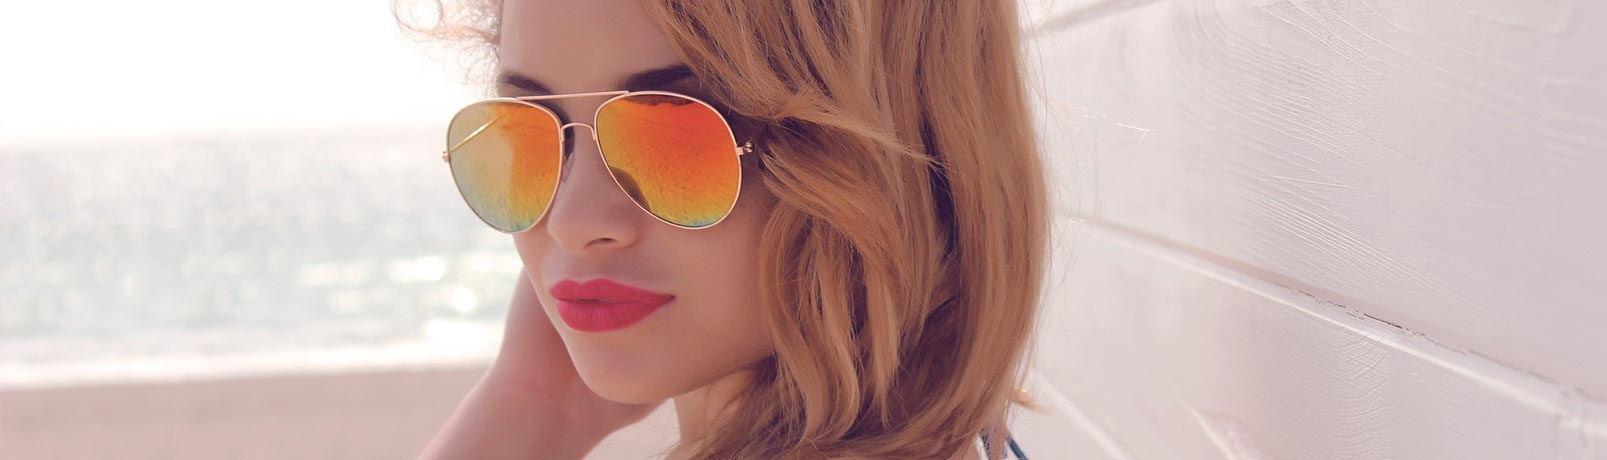
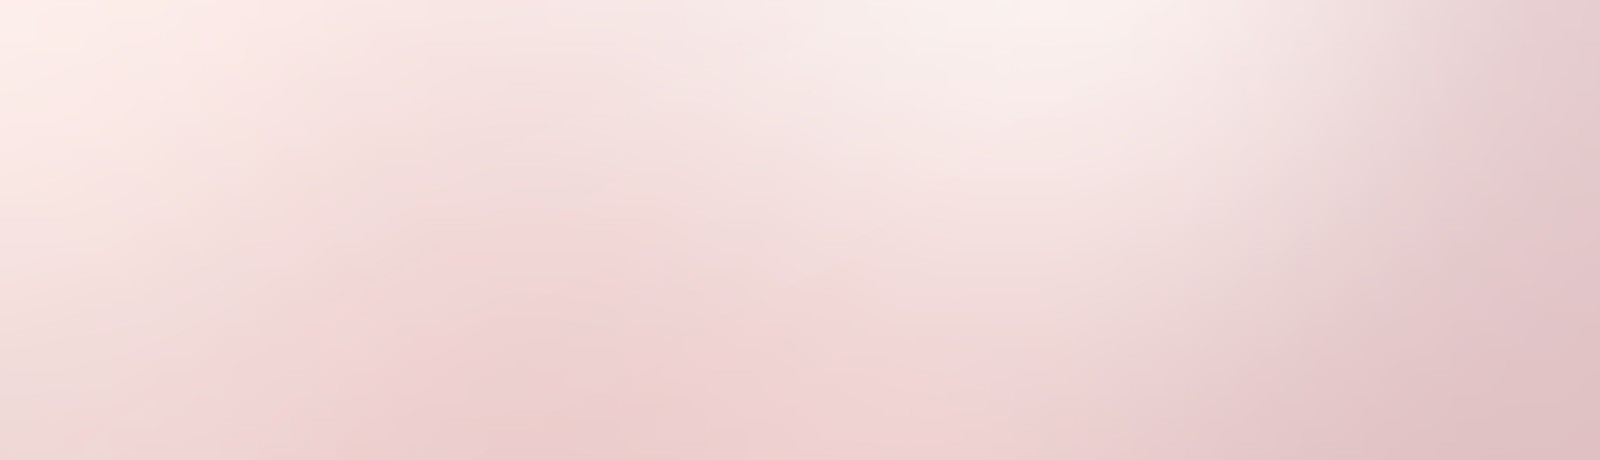
Pass the WordPress.org theme scan
The 3.1.0 upload was rejected. I had checked it with a set of greps I
wrote myself rather than with Theme Check, and they missed all of this.
The plugin now runs against the theme locally, which is how the rest of
this was found and confirmed fixed.

Two required failures:

* wp_body_open() was missing. WordPress has expected it since 5.2.
* The default header image came from a stock photo library whose licence
  WordPress.org does not accept as GPL compatible. Deleting the credit
  line would have quietened the scanner while leaving the asset in place
  for a human reviewer to find, so the image itself is replaced with one
  made for the theme, licensed with it. The screenshot is regenerated for
  the same reason -- it had the old photograph baked into it.

Three warnings:

* Three labels in the author widget escaped their text with esc_attr_e(),
  which is for attribute values, where the text sits between tags. Two of
  its select attributes were printed unescaped; those are escaped now.
* The header search was a hand-written form, and the theme carried three
  copies of it: header.php, a Customizer render callback, and
  searchform.php. A form written out like that cannot be filtered by a
  plugin, which is why the guidelines ask for get_search_form(). There is
  now one template part that renders it, and both callers use it.
* wp_nav_menu() in the author widget has no theme_location because it is
  not a theme location -- the menu is whichever the site owner picked in
[…]

diff --git a/style.css b/style.css
@@ -690,43 +690,58 @@ header#masthead {
     margin-bottom: 15px;
 }
 
-.top-header .search label {
+/* The header search is a toggle button followed by get_search_form()'s markup. That
+   form carries its own submit button, which is redundant here: the toggle already shows
+   the magnifier and the field submits on Enter, exactly as the old label-based version
+   did. */
+.top-header .search .search-toggle {
     font-size: 12px;
-    padding-right: 20px;
+    padding: 0 20px 0 0;
     margin-right: 20px;
+    border: 0 none;
     border-right: 1px solid #dddde0;
+    background: none;
     display: inline-block;
     line-height: 12px;
     color: #fe92a1;
     cursor: pointer;
 }
 
-.top-header .search input#search {
+.top-header .search .search-header-fields {
+    display: inline-block;
+    vertical-align: middle;
+}
+
+.top-header .search .search-submit {
+    display: none;
+}
+
+.top-header .search .search-field {
     border-left: 0 none;
     border-top: 0 none;
     border-right: 0 none;
     border-bottom: 1px solid #dddde0;
     margin-right: 10px;
     width: 0;
-    -webkit-transition: width .6s; /* Safari */
     transition: width .6s;
     box-sizing: border-box;
     padding: 0;
 }
 
-.top-header .search.active input#search {
+.top-header .search.active .search-field {
     width: 135px;
 }
 
-.top-header .search input#search:focus,
-.top-header .search input#search:hover {
+.top-header .search .search-field:focus,
+.top-header .search .search-field:hover {
     outline: none;
     border-color: #ae3c4e;
 }
 
-.top-header .search form {
+.top-header .search .search-form {
     position: relative;
     top: 1.75px;
+    display: inline-block;
 }
 
 header.archive-header {
@@ -1373,7 +1388,7 @@ a:active {
         display: block;
     }
 
-    .top-header .search label {
+    .top-header .search .search-toggle {
         border-right: 0 none;
         padding-right: 0;
         margin-right: 0;

diff --git a/assets/js/scripts.js b/assets/js/scripts.js
@@ -29,12 +29,17 @@ $(document).ready(function(){
 
 	}
 
-	$('.top-header .search .search-form label').click(function( evt ){
+	// The magnifier is a button now, not a label, so it carries aria-expanded and has
+	// to keep it in step with the class that reveals the field.
+	$('.top-header .search').on('click', '.search-toggle', function( evt ){
 		evt.stopPropagation();
 		evt.preventDefault();
-		$('.top-header .search').toggleClass( 'active' );
-		$('.top-header #search').focus();
-	});	
+		var $search = $(this).closest('.search').toggleClass('active');
+		$(this).attr('aria-expanded', $search.hasClass('active') ? 'true' : 'false');
+		if ( $search.hasClass('active') ) {
+			$search.find('.search-field').trigger('focus');
+		}
+	});
 
 });
 

diff --git a/inc/class-blaskan-author-widget.php b/inc/class-blaskan-author-widget.php
@@ -51,7 +51,13 @@ class Blaskan_Author_Widget extends WP_Widget {
 			$social_menu = ! empty( $instance['social_menu'] ) ? wp_get_nav_menu_object( $instance['social_menu'] ) : false;
 
 			if ( $social_menu ) {
-				
+
+				/*
+				 * No theme_location here on purpose. This is not a theme location: the
+				 * menu is whichever one the site owner picked in this widget's own form,
+				 * passed by term id. Theme Check flags any wp_nav_menu() without a
+				 * location for manual review, which this note is for.
+				 */
 				$social_menu_args = array(
 					'fallback_cb' 		=> '',
 					'menu'        		=> $social_menu,
@@ -86,11 +92,11 @@ class Blaskan_Author_Widget extends WP_Widget {
 
 		?>
 		<p>
-			<label for="<?php echo esc_attr( $this->get_field_id( 'title' ) ); ?>"><?php esc_attr_e( 'Title:', 'blaskan' ); ?></label> 
+			<label for="<?php echo esc_attr( $this->get_field_id( 'title' ) ); ?>"><?php esc_html_e( 'Title:', 'blaskan' ); ?></label> 
 			<input class="widefat" id="<?php echo esc_attr( $this->get_field_id( 'title' ) ); ?>" name="<?php echo esc_attr( $this->get_field_name( 'title' ) ); ?>" type="text" value="<?php echo esc_attr( $title ); ?>">
 		</p>
 		<p>
-			<label for="<?php echo esc_attr( $this->get_field_id( 'author' ) ); ?>"><?php esc_attr_e( 'Author:', 'blaskan' ); ?></label>
+			<label for="<?php echo esc_attr( $this->get_field_id( 'author' ) ); ?>"><?php esc_html_e( 'Author:', 'blaskan' ); ?></label>
 			<select id="<?php echo esc_attr( $this->get_field_id( 'author' ) ); ?>" name="<?php echo esc_attr( $this->get_field_name( 'author' ) ); ?>">
 				<option value="0"><?php _e( 'Select an user', 'blaskan' ); ?></option>
 				<?php
@@ -114,8 +120,8 @@ class Blaskan_Author_Widget extends WP_Widget {
 			<?php echo sprintf( __( 'No menus have been created yet. <a href="%s">Create some</a>.', 'blaskan' ), esc_attr( $url ) ); ?>
 		</p>
 		<p>
-			<label for="<?php echo esc_attr( $this->get_field_id( 'social_menu' ) ); ?>"><?php esc_attr_e( 'Social Menu:', 'blaskan' ); ?></label>
-			<select id="<?php echo $this->get_field_id( 'social_menu' ); ?>" name="<?php echo $this->get_field_name( 'social_menu' ); ?>">
+			<label for="<?php echo esc_attr( $this->get_field_id( 'social_menu' ) ); ?>"><?php esc_html_e( 'Social Menu:', 'blaskan' ); ?></label>
+			<select id="<?php echo esc_attr( $this->get_field_id( 'social_menu' ) ); ?>" name="<?php echo esc_attr( $this->get_field_name( 'social_menu' ) ); ?>">
 				<option value="0"><?php _e( '&mdash; Select &mdash;', 'blaskan' ); ?></option>
 				<?php foreach ( $menus as $menu ) : ?>
 					<option value="<?php echo esc_attr( $menu->term_id ); ?>" <?php selected( $social_menu, $menu->term_id ); ?>>

diff --git a/inc/blocks.php b/inc/blocks.php
@@ -1,0 +1,70 @@
+<?php
+/**
+ * Block editor: a block style and a block pattern in the theme's own idiom.
+ *
+ * @package blaskan
+ */
+
+/**
+ * A framed variant of the image block, matching the thin rule the theme uses around
+ * widgets and the footer columns.
+ */
+function blaskan_register_block_styles() {
+	register_block_style(
+		'core/image',
+		array(
+			'name'         => 'blaskan-framed',
+			'label'        => __( 'Framed', 'blaskan' ),
+			'inline_style' => '.wp-block-image.is-style-blaskan-framed img {
+				padding: 10px;
+				border: 1px solid #ebebeb;
+				background: #fff;
+			}',
+		)
+	);
+
+	register_block_style(
+		'core/quote',
+		array(
+			'name'         => 'blaskan-plain-quote',
+			'label'        => __( 'No rule', 'blaskan' ),
+			'inline_style' => '.wp-block-quote.is-style-blaskan-plain-quote {
+				border: 0 none;
+				padding-left: 0;
+				font-style: italic;
+			}',
+		)
+	);
+}
+add_action( 'init', 'blaskan_register_block_styles' );
+
+/**
+ * An opening block for a post: a short standfirst above the body, set the way the
+ * theme sets its own intro type.
+ */
+function blaskan_register_block_patterns() {
+	if ( ! function_exists( 'register_block_pattern' ) ) {
+		return;
+	}
+
+	register_block_pattern(
+		'blaskan/standfirst',
+		array(
+			'title'       => __( 'Standfirst and body', 'blaskan' ),
+			'description' => _x( 'A short introduction in larger type, followed by two columns of body text.', 'Block pattern description', 'blaskan' ),
+			'categories'  => array( 'text' ),
+			'content'     => '<!-- wp:paragraph {"fontSize":"large"} --><p class="has-large-font-size">'
+				. esc_html__( 'Open with a sentence or two that says what the piece is about, set larger than the body so a reader can decide from the top of the page.', 'blaskan' )
+				. '</p><!-- /wp:paragraph -->'
+				. '<!-- wp:columns --><div class="wp-block-columns">'
+				. '<!-- wp:column --><div class="wp-block-column"><!-- wp:paragraph --><p>'
+				. esc_html__( 'Then carry on in the ordinary body size.', 'blaskan' )
+				. '</p><!-- /wp:paragraph --></div><!-- /wp:column -->'
+				. '<!-- wp:column --><div class="wp-block-column"><!-- wp:paragraph --><p>'
+				. esc_html__( 'Two columns hold their measure on a wide screen and stack on a narrow one.', 'blaskan' )
+				. '</p><!-- /wp:paragraph --></div><!-- /wp:column -->'
+				. '</div><!-- /wp:columns -->',
+		)
+	);
+}
+add_action( 'init', 'blaskan_register_block_patterns' );

diff --git a/template-parts/header-search.php b/template-parts/header-search.php
@@ -1,0 +1,33 @@
+<?php
+/**
+ * The collapsible search in the top header.
+ *
+ * header.php and the Customizer's selective-refresh callback both render this, so the
+ * markup lives in one place rather than being written out twice.
+ *
+ * The form itself comes from get_search_form(), which is what the theme guidelines ask
+ * for: a search form written out by hand cannot be filtered by a plugin, and this
+ * theme was carrying three separate copies of one. The magnifier is a real <button> with
+ * aria-expanded rather than a <label> pressed into service as a toggle, so the control
+ * announces itself and works from the keyboard.
+ *
+ * @package blaskan
+ */
+
+$blaskan_disable_search = get_theme_mod( 'blaskan_disable_header_search', 0 );
+
+// The Customizer still renders it when disabled, hidden, so toggling the setting has
+// something to reveal without a full refresh.
+if ( $blaskan_disable_search && ! is_customize_preview() ) {
+	return;
+}
+?>
+<div id="search-header-form" class="search<?php echo ( is_customize_preview() && $blaskan_disable_search ) ? ' hide' : ''; ?>">
+	<button type="button" class="search-toggle" aria-expanded="false" aria-controls="search-header-fields">
+		<i class="fa-solid fa-magnifying-glass" aria-hidden="true"></i>
+		<span class="screen-reader-text"><?php esc_html_e( 'Toggle the search field', 'blaskan' ); ?></span>
+	</button>
+	<div id="search-header-fields" class="search-header-fields">
+		<?php get_search_form(); ?>
+	</div>
+</div>

diff --git a/header.php b/header.php
@@ -20,6 +20,7 @@
 </head>
 
 <body <?php body_class(); ?>>
+<?php wp_body_open(); ?>
 <div id="page" class="site">
     <header id="masthead" class="site-header" role="banner">
         <div class="site-branding ">
@@ -37,20 +38,10 @@
                     </div>
 				<?php }
 
-                $disable_search = get_theme_mod( 'blaskan_disable_header_search', 0 );
 
                 ?>
                 <div class="search-header-form-container pull-right">
-                    <?php if ( !$disable_search || is_customize_preview() ) { ?>
-                    <div id="search-header-form" class="search <?php echo ( is_customize_preview() && $disable_search ) ? 'hide' : '' ?>">
-                        <form role="search" method="get" class="search-form"
-                              action="<?php echo esc_url( home_url( '/' ) ); ?>">
-                            <input id="search" type="search" name="s"
-                                   placeholder="<?php esc_html__( 'Search ...', 'blaskan' ) ?>">
-                            <label for="search"><i class="fa-solid fa-magnifying-glass" aria-hidden="true"></i></label>
-                        </form>
-                    </div>
-                    <?php } ?>
+                    <?php get_template_part( 'template-parts/header-search' ); ?>
                 </div>
 
                 

diff --git a/inc/customizer.php b/inc/customizer.php
@@ -76,19 +76,13 @@ function blaskan_customize_register( $wp_customize ) {
 		'selector'        => '#search-header-form',
 		'container_inclusive' => true,
 		'render_callback' => function() {
-            $disable_search = get_theme_mod( 'blaskan_disable_header_search', 0 );
-            if ( $disable_search ) {
-            	return "";
-            }else{
-            	$output = "";
-            	$output .= '<div id="search-header-form" class="search"><form role="search" method="get" class="search-form" action="'.esc_url( home_url( '/' ) ).'">';
-                    $output .= '<input id="search" type="search" name="s" placeholder="'.esc_html__( 'Search ...', 'blaskan' ).'">';
-                    $output .= '<label for="search"><i class="fa-solid fa-magnifying-glass" aria-hidden="true"></i></label>';
-                $output .= '</form></div>';
+			// Render the same template part header.php uses, rather than a second copy of
+			// the markup that then has to be kept in step with it by hand.
+			ob_start();
+			get_template_part( 'template-parts/header-search' );
 
-                return $output;
-            }
-        },
+			return ob_get_clean();
+		},
 	) );
 
 }

diff --git a/functions.php b/functions.php
@@ -76,6 +76,13 @@ if ( ! function_exists( 'blaskan_setup' ) ) :
 		// Add theme support for selective refresh for widgets.
 		add_theme_support( 'customize-selective-refresh-widgets' );
 
+		// Block editor. wp-block-styles brings the default block styles the editor
+		// assumes, responsive-embeds keeps embedded video inside its column, and
+		// align-wide lets a block break out of the content measure.
+		add_theme_support( 'wp-block-styles' );
+		add_theme_support( 'responsive-embeds' );
+		add_theme_support( 'align-wide' );
+
 		// Add image sizes
 		add_image_size( 'related-blog-post', 360, 270, true );
 		add_image_size( 'big-blog-post', 1140, 570, true );
@@ -230,6 +237,7 @@ require get_template_directory() . '/inc/template-tags.php';
  * Custom functions that act independently of the theme templates.
  */
 require get_template_directory() . '/inc/extras.php';
+require get_template_directory() . '/inc/blocks.php';
 
 /**
  * Customizer additions.
